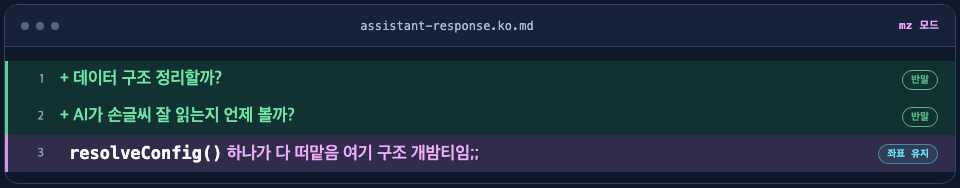
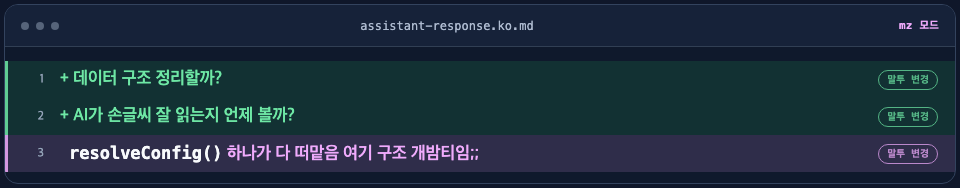
Relabel hero tags per stage

Changed region(s): [[0.9062, 0.7447, 0.9688, 0.8777], [0.9062, 0.5585, 0.9688, 0.6915], [0.9062, 0.3723, 0.9688, 0.4787]]

diff --git a/assets/korean-tone-hero/index.html b/assets/korean-tone-hero/index.html
@@ -332,7 +332,7 @@
           <div class="line c-new p3 row-1">
             <span class="line-no">1</span>
             <span>+ 데이터 구조 정리할까?</span>
-            <span class="tag">반말</span>
+            <span class="tag">말투 변경</span>
           </div>
 
           <div class="line c-old p1 row-2">
@@ -348,13 +348,13 @@
           <div class="line c-new p3 row-2">
             <span class="line-no">2</span>
             <span>+ AI가 손글씨 잘 읽는지 언제 볼까?</span>
-            <span class="tag">반말</span>
+            <span class="tag">말투 변경</span>
           </div>
 
           <div class="line c-keep p1 row-3">
             <span class="line-no">3</span>
             <span>&nbsp; <code>resolveConfig()</code>에 대해 책임 분리가 수행되지 않았습니다.</span>
-            <span class="tag kept">좌표 유지</span>
+            <span></span>
           </div>
           <div class="line c-keep p2 row-3">
             <span class="line-no">3</span>
@@ -364,7 +364,7 @@
           <div class="line c-mz p3 row-3">
             <span class="line-no">3</span>
             <span>&nbsp; <code>resolveConfig()</code> 하나가 다 떠맡음 여기 구조 개밤티임;;</span>
-            <span class="tag kept">좌표 유지</span>
+            <span class="tag">말투 변경</span>
           </div>
         </div>
       </section>
